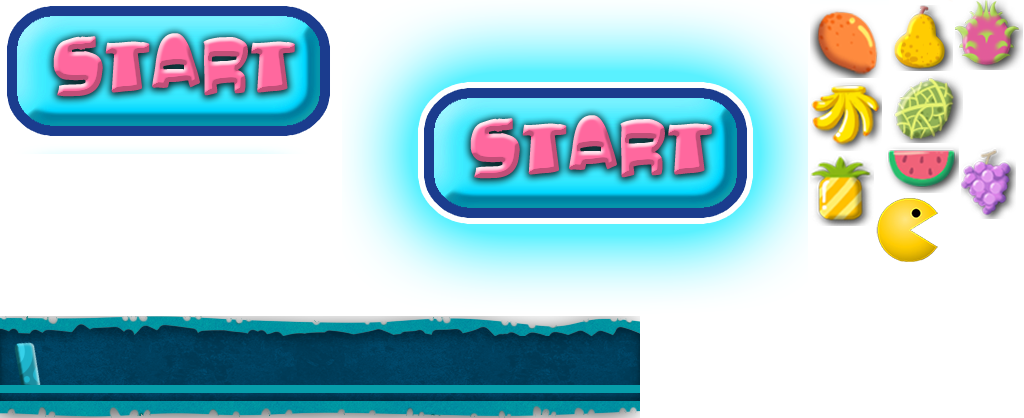
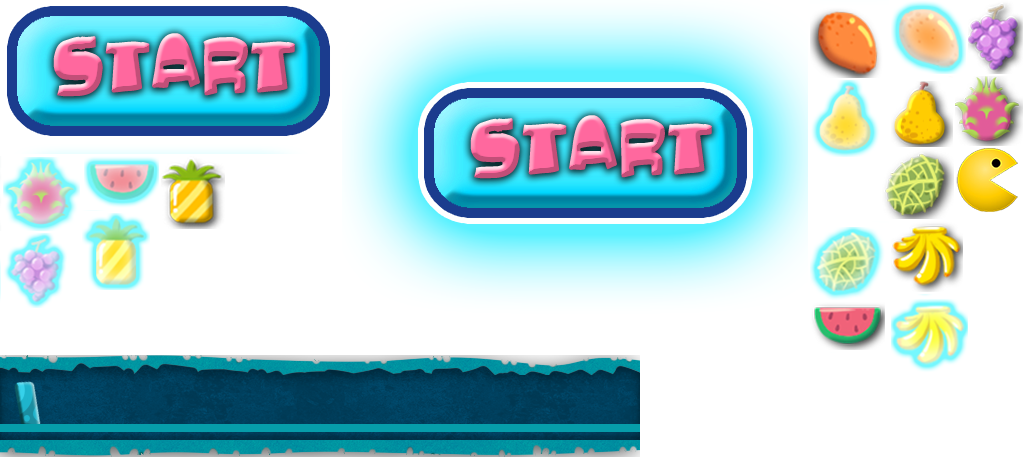
功能修改

diff --git a/bin/h5/temptriple.max.js b/bin/h5/temptriple.max.js
@@ -180,16 +180,16 @@ var Laya=window.Laya=(function(window,document){
 
 (function(window,document,Laya){
 	var __un=Laya.un,__uns=Laya.uns,__static=Laya.static,__class=Laya.class,__getset=Laya.getset,__newvec=Laya.__newvec;
-	Laya.interface('laya.filters.IFilterAction');
-	Laya.interface('laya.webgl.shapes.IShape');
-	Laya.interface('laya.display.ILayout');
-	Laya.interface('laya.runtime.IConchNode');
-	Laya.interface('laya.resource.IDispose');
-	Laya.interface('laya.webgl.text.ICharSegment');
-	Laya.interface('laya.runtime.IMarket');
-	Laya.interface('laya.webgl.canvas.save.ISaveData');
-	Laya.interface('laya.webgl.resource.IMergeAtlasBitmap');
 	Laya.interface('laya.webgl.submit.ISubmit');
+	Laya.interface('laya.webgl.text.ICharSegment');
+	Laya.interface('laya.filters.IFilterAction');
+	Laya.interface('laya.runtime.IConchNode');
+	Laya.interface('laya.webgl.canvas.save.ISaveData');
+	Laya.interface('laya.webgl.shapes.IShape');
+	Laya.interface('laya.runtime.IMarket');
+	Laya.interface('laya.display.ILayout');
+	Laya.interface('laya.resource.IDispose');
+	Laya.interface('laya.webgl.resource.IMergeAtlasBitmap');
 	Laya.interface('laya.filters.IFilterActionGL','laya.filters.IFilterAction');
 	/**
 	*@private
@@ -369,6 +369,23 @@ var Laya=window.Laya=(function(window,document){
 		['conchMarket',function(){return this.conchMarket=window.conch?conchMarket:null;}
 		]);
 		return Laya;
+	})()
+
+
+	/**
+	*...
+	*@author anling
+	*/
+	//class data.EffectData
+	var EffectData=(function(){
+		function EffectData(){
+			this.type=0;
+			this.size=0;
+			this.sameArr=[];
+		}
+
+		__class(EffectData,'data.EffectData');
+		return EffectData;
 	})()
 
 
@@ -669,6 +686,7 @@ var Laya=window.Laya=(function(window,document){
 	*/
 	//class GameInfo
 	var GameInfo=(function(){
+		// 消除相同物品
 		function GameInfo(){}
 		__class(GameInfo,'GameInfo');
 		GameInfo.ITEM_TYPE_NUM=8;
@@ -681,6 +699,8 @@ var Laya=window.Laya=(function(window,document){
 		GameInfo.ROW_NUM=8;
 		GameInfo.COLUMN_NUM=8;
 		GameInfo.EAT_DURATION=200;
+		GameInfo.EXPLOSION=1;
+		GameInfo.SAME_REMOVE=2;
 		return GameInfo;
 	})()
 
@@ -711,13 +731,16 @@ var Laya=window.Laya=(function(window,document){
 
 
 	/**
-	*...
+	*管理吃下的物品以及特效类型判断
 	*@author anling
 	*/
 	//class manager.StomachManager
 	var StomachManager=(function(){
 		function StomachManager(){
 			this._layer=null;
+			this.lastTag=0;
+			this.sameCount=0;
+			this.effectData=new EffectData();
 		}
 
 		__class(StomachManager,'manager.StomachManager');
@@ -728,6 +751,7 @@ var Laya=window.Laya=(function(window,document){
 
 		__proto.pushItem=function(item){
 			this.layer.pushItem(item);
+			this.adjustEffectType();
 		}
 
 		__proto.spitItem=function(){
@@ -736,6 +760,35 @@ var Laya=window.Laya=(function(window,document){
 
 		__proto.showExtraItem=function(){
 			this._layer.showExtraItem();
+		}
+
+		__proto.adjustEffectType=function(){
+			var stomachArr=this.layer.spitItem();
+			if (stomachArr.length >=3){
+				var arr=[];
+				for (var i=0;i < stomachArr.length;i++){
+					var item=stomachArr [i];
+					if (this.lastTag==item.tag){
+						this.sameCount++;
+						arr.push(item);
+					}
+					else {
+						this.sameCount=1;
+						arr=[];
+						arr.push(item);
+					}
+					if (this.sameCount >=3){
+						for (var j=0;j < this.sameCount;j++){
+							var effectItem=stomachArr [j];
+							effectItem.effectStat();
+						}
+						if (stomachArr.length==8)
+							this.effectData.sameArr.push(arr);
+						this.sameCount=0;
+					}
+					this.lastTag=item.tag;
+				}
+			}
 		}
 
 		__getset(0,__proto,'layer',function(){
@@ -19806,7 +19859,7 @@ var Laya=window.Laya=(function(window,document){
 				GameInfo.ITEM_AREA_Y+playerRow *80);
 				this._itemArr[playerRow][column]=item;
 				item.site(playerRow,column);
-				item.playAddAnime();
+				item.playAddAction();
 			}
 			StomachManager.getInstance().showExtraItem();
 		}
@@ -22130,14 +22183,20 @@ var Laya=window.Laya=(function(window,document){
 			var texture=Laya.loader.getRes("fruit/item_"+this.tag+".png");
 			this.graphics.clear();
 			this.graphics.drawTexture(texture,0,0);
-			this.playAddAnime();
+			this.playAddAction();
 		}
 
-		__proto.playAddAnime=function(){
+		__proto.playAddAction=function(){
 			var scaleAction=new TimeLine();
 			scaleAction.to(this,{scaleX:1.5,scaleY:1.5},100)
 			.to(this,{scaleX:1.0,scaleY:1.0},100);
 			scaleAction.play();
+		}
+
+		__proto.effectStat=function(){
+			var texture=Laya.loader.getRes("fruit/item_"+this.tag+"_1.png");
+			this.graphics.clear();
+			this.graphics.drawTexture(texture,0,0);
 		}
 
 		__getset(0,__proto,'sign',function(){
@@ -23156,7 +23215,7 @@ var Laya=window.Laya=(function(window,document){
 	})(HTMLImage)
 
 
-	Laya.__init([EventDispatcher,TimeLine,Render,Browser,WebGLContext,WebGLContext2D,LoaderManager,RenderTargetMAX,Timer,DrawText,AtlasGrid,ShaderCompile]);
+	Laya.__init([EventDispatcher,TimeLine,Render,Browser,WebGLContext,WebGLContext2D,LoaderManager,RenderTargetMAX,Timer,AtlasGrid,ShaderCompile,DrawText]);
 	new Main();
 
 })(window,document,Laya);
